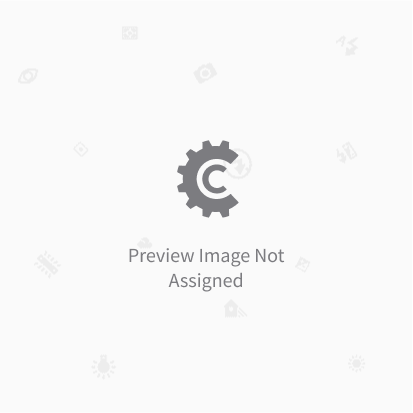
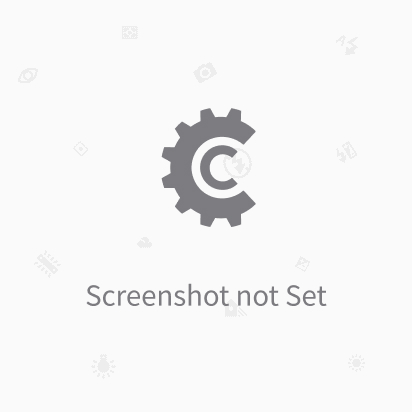
4.0.0 Stability Change the inlined item actions menu for the "more" options menu on Preview on the context nav Fix missing import on LoggingLevelsManagement component [4697] Change text of the fallback preview image - craftercms/craftercms#4697

Changed region(s): [[0.3786, 0.2621, 0.6117, 0.5534], [0.2039, 0.5825, 0.699, 0.7573], [0.699, 0.6699, 0.7864, 0.7573]]

diff --git a/ui/app/src/components/PreviewAddressBar/PreviewAddressBar.tsx b/ui/app/src/components/PreviewAddressBar/PreviewAddressBar.tsx
@@ -14,14 +14,11 @@
  * along with this program.  If not, see <http://www.gnu.org/licenses/>.
  */
 
-import { defineMessages, useIntl } from 'react-intl';
+import { defineMessages, FormattedMessage, useIntl } from 'react-intl';
 import { isBlank } from '../../utils/string';
 import React, { useEffect, useState } from 'react';
-import { createStyles, makeStyles, Theme, useTheme } from '@material-ui/core/styles';
-import useMediaQuery from '@material-ui/core/useMediaQuery';
-import { useEnv, useSelection } from '../../utils/hooks';
+import { createStyles, makeStyles, Theme } from '@material-ui/core/styles';
 import { useDispatch } from 'react-redux';
-import { AllItemActions, generateSingleItemOptions, itemActionDispatcher } from '../../utils/itemActions';
 import IconButton from '@material-ui/core/IconButton';
 import RefreshRounded from '@material-ui/icons/RefreshRounded';
 import Paper from '@material-ui/core/Paper';
@@ -30,8 +27,15 @@ import ItemDisplay from '../ItemDisplay';
 import PagesSearchAhead from '../PagesSearchAhead';
 import SingleItemSelector from '../../modules/Content/Authoring/SingleItemSelector';
 import { DetailedItem } from '../../models/Item';
-import ActionsGroup from '../ActionsGroup';
-import Skeleton from '@material-ui/lab/Skeleton';
+import MoreRounded from '@material-ui/icons/MoreVertRounded';
+// @ts-ignore
+import { getOffsetLeft, getOffsetTop } from '@material-ui/core/Popover/Popover';
+import { withIndex } from '../../utils/path';
+import { batchActions } from '../../state/actions/misc';
+import { completeDetailedItem } from '../../state/actions/content';
+import { showItemMegaMenu } from '../../state/actions/dialogs';
+import { getNumOfMenuOptionsForItem } from '../../utils/content';
+import Tooltip from '@material-ui/core/Tooltip';
 
 export interface AddressBarProps {
   site: string;
@@ -106,6 +110,10 @@ const translations = defineMessages({
   reload: {
     id: 'words.reload',
     defaultMessage: 'Reload'
+  },
+  options: {
+    id: 'words.options',
+    defaultMessage: 'Options'
   }
 });
 
@@ -123,48 +131,34 @@ export function AddressBar(props: AddressBarProps) {
     url && setInternalUrl(url);
   }, [url]);
 
-  const theme = useTheme();
-  const [numOfVisibleActions, setNumOfVisibleActions] = useState(5);
-  const isSmallScreen = useMediaQuery(theme.breakpoints.only('sm'));
-  const isMediumScreen = useMediaQuery(theme.breakpoints.only('md'));
-  const isLargeScreen = useMediaQuery(theme.breakpoints.only('lg'));
-  useEffect(() => {
-    setNumOfVisibleActions(isSmallScreen ? 1 : isMediumScreen ? 4 : isLargeScreen ? 8 : 15);
-  }, [isSmallScreen, isMediumScreen, isLargeScreen]);
-
-  const { authoringBase } = useEnv();
   const dispatch = useDispatch();
-  const clipboard = useSelection((state) => state.content.clipboard);
-  const onMenuItemClicked = (option: AllItemActions, event: React.MouseEvent<HTMLLIElement, MouseEvent>) =>
-    itemActionDispatcher({
-      site,
-      item,
-      option,
-      authoringBase,
-      dispatch,
-      formatMessage,
-      clipboard,
-      event
-    });
-  const actions = generateSingleItemOptions(item, formatMessage, {
-    includeOnly: [
-      'edit',
-      'delete',
-      'dependencies',
-      'history',
-      'publish',
-      'approvePublish',
-      'schedulePublish',
-      'rejectPublish',
-      'duplicate'
-    ]
-  })?.flatMap((options) => options);
-
+  const onOptions = (e) => {
+    const anchorRect = e.currentTarget.getBoundingClientRect();
+    const top = anchorRect.top + getOffsetTop(anchorRect, 'top');
+    const left = anchorRect.left + getOffsetLeft(anchorRect, 'left');
+    let path = item.path;
+    if (path === '/site/website') {
+      path = withIndex(item.path);
+    }
+    dispatch(
+      batchActions([
+        completeDetailedItem({ path }),
+        showItemMegaMenu({
+          path: path,
+          anchorReference: 'anchorPosition',
+          anchorPosition: { top, left },
+          loaderItems: getNumOfMenuOptionsForItem(item)
+        })
+      ])
+    );
+  };
   return (
     <>
-      <IconButton title={formatMessage(translations.reload)} onClick={onRefresh}>
-        <RefreshRounded />
-      </IconButton>
+      <Tooltip title={<FormattedMessage id="previewAddressBar.reloadButtonLabel" defaultMessage="Reload this page" />}>
+        <IconButton title={formatMessage(translations.reload)} onClick={onRefresh}>
+          <RefreshRounded />
+        </IconButton>
+      </Tooltip>
       <Paper
         variant={focus ? 'elevation' : 'outlined'}
         elevation={focus ? 2 : 0}
@@ -206,17 +200,11 @@ export function AddressBar(props: AddressBarProps) {
           }}
         />
       </Paper>
-      {item ? (
-        <ActionsGroup max={numOfVisibleActions} actions={actions} onActionClicked={onMenuItemClicked} />
-      ) : (
-        <>
-          <Skeleton animation="pulse" className={classes.itemActionSkeleton} />
-          <Skeleton animation="pulse" className={classes.itemActionSkeleton} />
-          <Skeleton animation="pulse" className={classes.itemActionSkeleton} />
-          <Skeleton animation="pulse" className={classes.itemActionSkeleton} />
-          <Skeleton animation="pulse" variant="circle" width="25px" height="25px" />
-        </>
-      )}
+      <Tooltip title={Boolean(item) ? <FormattedMessage id="words.options" defaultMessage="Options" /> : ''}>
+        <IconButton title={formatMessage(translations.options)} onClick={onOptions} disabled={!item}>
+          <MoreRounded />
+        </IconButton>
+      </Tooltip>
     </>
   );
 }

diff --git a/ui/app/src/components/LoggingLevelsManagement/LoggingLevelsManagement.tsx b/ui/app/src/components/LoggingLevelsManagement/LoggingLevelsManagement.tsx
@@ -14,6 +14,7 @@
  * along with this program.  If not, see <http://www.gnu.org/licenses/>.
  */
 
+import * as React from 'react';
 import { useCallback, useEffect, useMemo, useState } from 'react';
 import { Logger, LoggerLevel } from '../../models/Logger';
 import ApiResponse from '../../models/ApiResponse';
